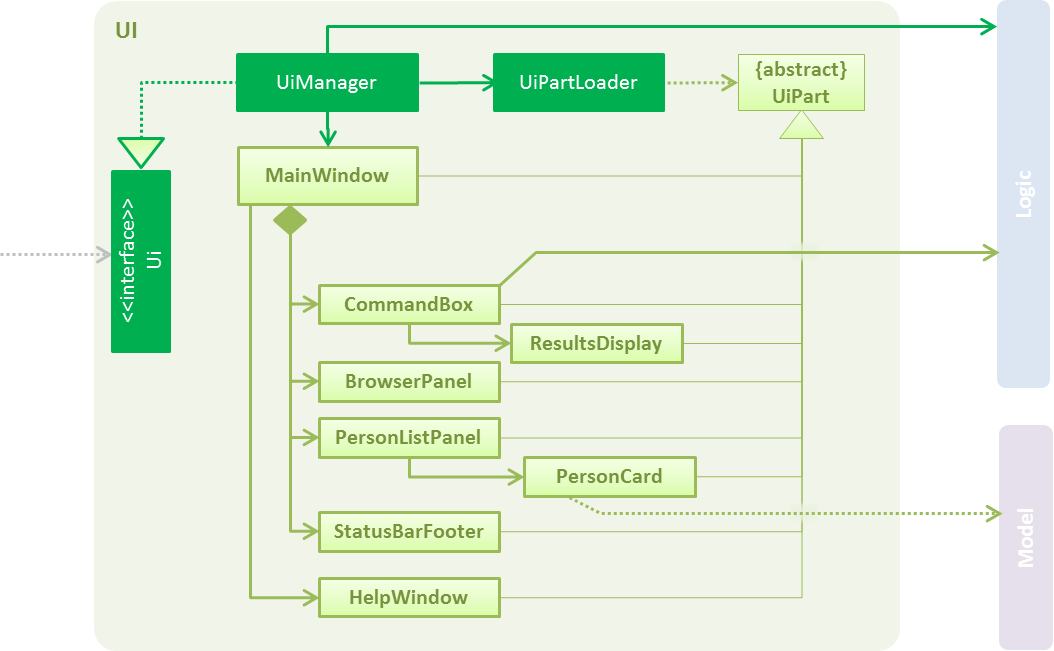
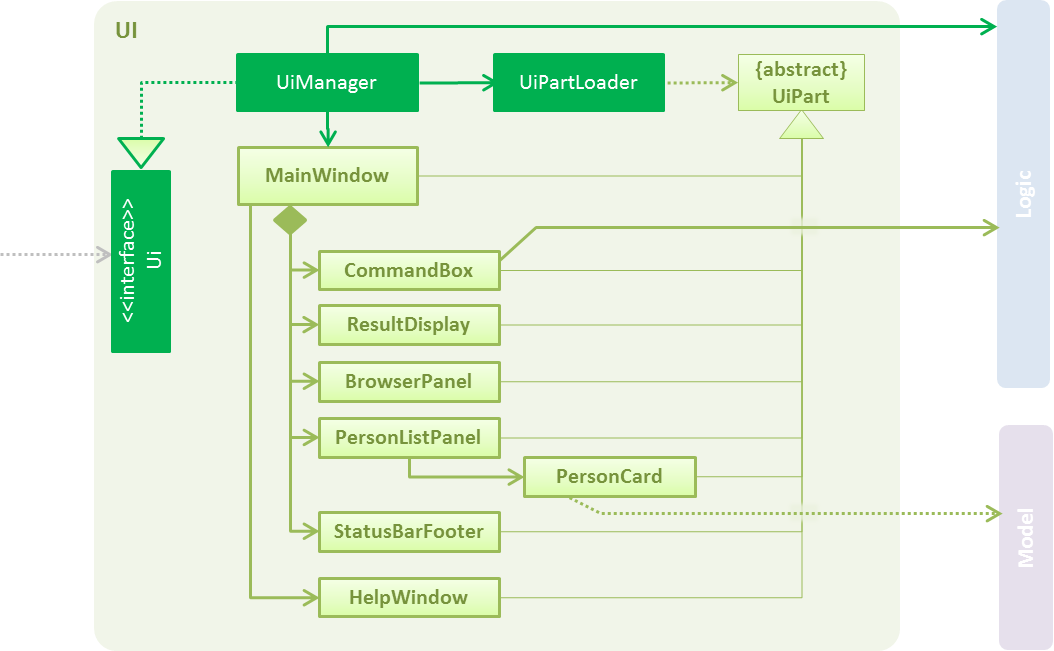
[91] Separate CommandBox and ResultsDisplay
Separate CommandBox and ResultsDisplay #91

Changed region(s): [[0.2732, 0.3379, 0.9412, 0.5837]]

diff --git a/src/main/java/seedu/address/ui/CommandBox.java b/src/main/java/seedu/address/ui/CommandBox.java
@@ -7,11 +7,12 @@ import javafx.scene.control.SplitPane;
 import javafx.scene.control.TextField;
 import javafx.scene.layout.AnchorPane;
 import javafx.stage.Stage;
-import seedu.address.commons.events.ui.IncorrectCommandAttemptedEvent;
-import seedu.address.logic.Logic;
-import seedu.address.logic.commands.*;
-import seedu.address.commons.util.FxViewUtil;
 import seedu.address.commons.core.LogsCenter;
+import seedu.address.commons.events.ui.IncorrectCommandAttemptedEvent;
+import seedu.address.commons.events.ui.NewResultAvailableEvent;
+import seedu.address.commons.util.FxViewUtil;
+import seedu.address.logic.Logic;
+import seedu.address.logic.commands.CommandResult;
 
 import java.util.logging.Logger;
 
@@ -21,25 +22,21 @@ public class CommandBox extends UiPart {
 
     private AnchorPane placeHolderPane;
     private AnchorPane commandPane;
-    private ResultDisplay resultDisplay;
-    String previousCommandTest;
+    private String previousCommandText;
 
     private Logic logic;
 
     @FXML
     private TextField commandTextField;
-    private CommandResult mostRecentResult;
 
-    public static CommandBox load(Stage primaryStage, AnchorPane commandBoxPlaceholder, ResultDisplay resultDisplay,
-                                  Logic logic) {
+    public static CommandBox load(Stage primaryStage, AnchorPane commandBoxPlaceholder, Logic logic) {
         CommandBox commandBox = UiPartLoader.loadUiPart(primaryStage, commandBoxPlaceholder, new CommandBox());
-        commandBox.configure(resultDisplay, logic);
+        commandBox.configure(logic);
         commandBox.addToPlaceholder();
         return commandBox;
     }
 
-    public void configure(ResultDisplay resultDisplay, Logic logic) {
-        this.resultDisplay = resultDisplay;
+    public void configure(Logic logic) {
         this.logic = logic;
         registerAsAnEventHandler(this);
     }
@@ -70,15 +67,15 @@ public class CommandBox extends UiPart {
     @FXML
     private void handleCommandInputChanged() {
         //Take a copy of the command text
-        previousCommandTest = commandTextField.getText();
+        previousCommandText = commandTextField.getText();
 
         /* We assume the command is correct. If it is incorrect, the command box will be changed accordingly
          * in the event handling code {@link #handleIncorrectCommandAttempted}
          */
         setStyleToIndicateCorrectCommand();
-        mostRecentResult = logic.execute(previousCommandTest);
-        resultDisplay.postMessage(mostRecentResult.feedbackToUser);
+        CommandResult mostRecentResult = logic.execute(previousCommandText);
         logger.info("Result: " + mostRecentResult.feedbackToUser);
+        raise(new NewResultAvailableEvent(mostRecentResult.feedbackToUser));
     }
 
 
@@ -92,7 +89,7 @@ public class CommandBox extends UiPart {
 
     @Subscribe
     private void handleIncorrectCommandAttempted(IncorrectCommandAttemptedEvent event){
-        logger.info(LogsCenter.getEventHandlingLogMessage(event, "Invalid command: " + previousCommandTest));
+        logger.info(LogsCenter.getEventHandlingLogMessage(event, "Invalid command: " + previousCommandText));
         setStyleToIndicateIncorrectCommand();
         restoreCommandText();
     }
@@ -101,7 +98,7 @@ public class CommandBox extends UiPart {
      * Restores the command box text to the previously entered command
      */
     private void restoreCommandText() {
-        commandTextField.setText(previousCommandTest);
+        commandTextField.setText(previousCommandText);
     }
 
     /**

diff --git a/src/main/java/seedu/address/ui/MainWindow.java b/src/main/java/seedu/address/ui/MainWindow.java
@@ -23,8 +23,8 @@ public class MainWindow extends UiPart {
 
     private static final String ICON = "/images/address_book_32.png";
     private static final String FXML = "MainWindow.fxml";
-    public static final int MIN_HEIGHT = 600;
-    public static final int MIN_WIDTH = 450;
+    private static final int MIN_HEIGHT = 600;
+    private static final int MIN_WIDTH = 450;
 
     private Logic logic;
 
@@ -39,7 +39,6 @@ public class MainWindow extends UiPart {
 
     // Handles to elements of this Ui container
     private VBox rootLayout;
-    private Scene scene;
 
     private String addressBookName;
 
@@ -60,7 +59,6 @@ public class MainWindow extends UiPart {
 
     @FXML
     private AnchorPane statusbarPlaceholder;
-
 
     public MainWindow() {
         super();
@@ -96,7 +94,7 @@ public class MainWindow extends UiPart {
         setIcon(ICON);
         setWindowMinSize();
         setWindowDefaultSize(prefs);
-        scene = new Scene(rootLayout);
+        Scene scene = new Scene(rootLayout);
         primaryStage.setScene(scene);
 
         setAccelerators();
@@ -112,7 +110,7 @@ public class MainWindow extends UiPart {
         resultDisplay = ResultDisplay.load(primaryStage, getResultDisplayPlaceholder());
         statusBarFooter = StatusBarFooter.load(primaryStage, getStatusbarPlaceholder(),
                                                config.getAddressBookFilePath());
-        commandBox = CommandBox.load(primaryStage, getCommandBoxPlaceholder(), resultDisplay, logic);
+        commandBox = CommandBox.load(primaryStage, getCommandBoxPlaceholder(), logic);
     }
 
     private AnchorPane getCommandBoxPlaceholder() {
@@ -127,11 +125,11 @@ public class MainWindow extends UiPart {
         return resultDisplayPlaceholder;
     }
 
-    public AnchorPane getPersonListPlaceholder() {
+    private AnchorPane getPersonListPlaceholder() {
         return personListPanelPlaceholder;
     }
 
-    public void hide() {
+    void hide() {
         primaryStage.hide();
     }
 
@@ -142,7 +140,7 @@ public class MainWindow extends UiPart {
     /**
      * Sets the default size based on user preferences.
      */
-    protected void setWindowDefaultSize(UserPrefs prefs) {
+    private void setWindowDefaultSize(UserPrefs prefs) {
         primaryStage.setHeight(prefs.getGuiSettings().getWindowHeight());
         primaryStage.setWidth(prefs.getGuiSettings().getWindowWidth());
         if (prefs.getGuiSettings().getWindowCoordinates() != null) {
@@ -159,7 +157,7 @@ public class MainWindow extends UiPart {
     /**
      * Returns the current size and the position of the main Window.
      */
-    public GuiSettings getCurrentGuiSetting() {
+    GuiSettings getCurrentGuiSetting() {
         return new GuiSettings(primaryStage.getWidth(), primaryStage.getHeight(),
                 (int) primaryStage.getX(), (int) primaryStage.getY());
     }
@@ -170,7 +168,7 @@ public class MainWindow extends UiPart {
         helpWindow.show();
     }
 
-    public void show() {
+    void show() {
         primaryStage.show();
     }
 
@@ -186,11 +184,12 @@ public class MainWindow extends UiPart {
         return this.personListPanel;
     }
 
-    public void loadPersonPage(ReadOnlyPerson person) {
+    void loadPersonPage(ReadOnlyPerson person) {
         browserPanel.loadPersonPage(person);
     }
 
-    public void releaseResources() {
+    void releaseResources() {
         browserPanel.freeResources();
     }
+
 }

diff --git a/src/main/java/seedu/address/ui/ResultDisplay.java b/src/main/java/seedu/address/ui/ResultDisplay.java
@@ -1,46 +1,51 @@
 package seedu.address.ui;
 
+import javafx.fxml.FXML;
+import com.google.common.eventbus.Subscribe;
 import javafx.beans.property.SimpleStringProperty;
 import javafx.beans.property.StringProperty;
 import javafx.scene.Node;
 import javafx.scene.control.TextArea;
 import javafx.scene.layout.AnchorPane;
 import javafx.stage.Stage;
+import seedu.address.commons.core.LogsCenter;
+import seedu.address.commons.events.ui.NewResultAvailableEvent;
 import seedu.address.commons.util.FxViewUtil;
+
+import java.util.logging.Logger;
 
 /**
  * A ui for the status bar that is displayed at the header of the application.
  */
 public class ResultDisplay extends UiPart {
-    public static final String RESULT_DISPLAY_ID = "resultDisplay";
-    private static final String STATUS_BAR_STYLE_SHEET = "result-display";
-    private TextArea resultDisplayArea;
-    private final StringProperty displayed = new SimpleStringProperty("");
 
+    private static final Logger logger = LogsCenter.getLogger(ResultDisplay.class);
     private static final String FXML = "ResultDisplay.fxml";
 
+    private final StringProperty displayed = new SimpleStringProperty("");
+
+    @FXML
     private AnchorPane placeHolder;
 
+    @FXML
     private AnchorPane mainPane;
 
+    @FXML
+    private TextArea resultDisplay;
+
     public static ResultDisplay load(Stage primaryStage, AnchorPane placeHolder) {
-        ResultDisplay statusBar = UiPartLoader.loadUiPart(primaryStage, placeHolder, new ResultDisplay());
-        statusBar.configure();
-        return statusBar;
+        ResultDisplay resultDisplay = UiPartLoader.loadUiPart(primaryStage, placeHolder, new ResultDisplay());
+        resultDisplay.configure();
+        return resultDisplay;
     }
 
-    public void configure() {
-        resultDisplayArea = new TextArea();
-        resultDisplayArea.setEditable(false);
-        resultDisplayArea.setId(RESULT_DISPLAY_ID);
-        resultDisplayArea.getStyleClass().removeAll();
-        resultDisplayArea.getStyleClass().add(STATUS_BAR_STYLE_SHEET);
-        resultDisplayArea.setText("");
-        resultDisplayArea.textProperty().bind(displayed);
-        FxViewUtil.applyAnchorBoundaryParameters(resultDisplayArea, 0.0, 0.0, 0.0, 0.0);
-        mainPane.getChildren().add(resultDisplayArea);
+    private void configure() {
+        resultDisplay.textProperty().bind(displayed);
+        FxViewUtil.applyAnchorBoundaryParameters(resultDisplay, 0.0, 0.0, 0.0, 0.0);
+        mainPane.getChildren().add(resultDisplay);
         FxViewUtil.applyAnchorBoundaryParameters(mainPane, 0.0, 0.0, 0.0, 0.0);
         placeHolder.getChildren().add(mainPane);
+        registerAsAnEventHandler(this);
     }
 
     @Override
@@ -58,8 +63,10 @@ public class ResultDisplay extends UiPart {
         return FXML;
     }
 
-    public void postMessage(String message) {
-        displayed.setValue(message);
+    @Subscribe
+    private void handleNewResultAvailableEvent(NewResultAvailableEvent event) {
+        logger.info(LogsCenter.getEventHandlingLogMessage(event));
+        displayed.setValue(event.message);
     }
 
 }

diff --git a/src/main/java/seedu/address/commons/events/ui/NewResultAvailableEvent.java b/src/main/java/seedu/address/commons/events/ui/NewResultAvailableEvent.java
@@ -1,0 +1,21 @@
+package seedu.address.commons.events.ui;
+
+import seedu.address.commons.events.BaseEvent;
+
+/**
+ * Indicates that a new result is available.
+ */
+public class NewResultAvailableEvent extends BaseEvent {
+
+    public final String message;
+
+    public NewResultAvailableEvent(String message) {
+        this.message = message;
+    }
+
+    @Override
+    public String toString() {
+        return this.getClass().getSimpleName();
+    }
+
+}
